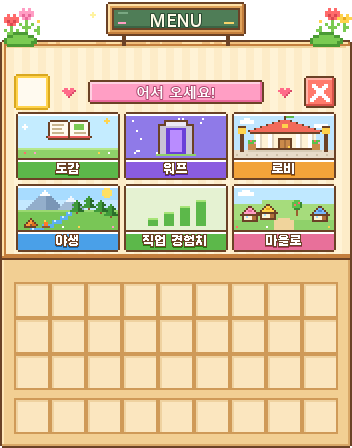
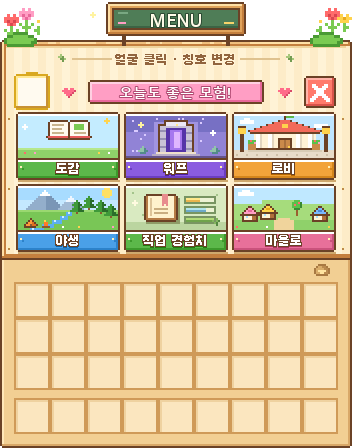
style: enrich village menu pixel art details

diff --git a/tools/make_art.py b/tools/make_art.py
@@ -5,7 +5,7 @@ ServerCore 그림 만들기 (밝고 귀여운 스타듀밸리 느낌)  →  tool
 배경은 GUI 좌표(1배) 기준으로 설계하고 2배 해상도로 그려요 (게임에서 더 선명).
 창 위로 튀어나온 간판·꽃을 그리려고 그림 위쪽에 TOP(=20)px 여백이 있어요.
   - dogam_bg.png  176 x (20+222)  : 칠판 간판 + 수집품 판(9x5) + 아래 조작 줄 + 가방
-  - menu_bg.png   176 x (20+204)  : 칠판 간판 + 일러스트 큰 버튼 4개 + 가방
+  - menu_bg.png   176 x (20+204)  : 칠판 간판 + 일러스트 큰 버튼 6개 + 가방
   - skill_bg.png  176 x (20+222)  : 칠판 간판 + 분야별 카드 5줄 + 가방
   - land_bg.png   176 x (20+222)  : 칠판 간판 + 청크 지도(풀밭 7x5) + 버튼 줄 + 가방
   - check.png, arrow_*.png        : 아이템 모델용 그림
@@ -377,9 +377,9 @@ def draw_shop(theme):
 # ======================================================================
 #  메뉴 (5줄 상자) — 모든 그림은 자기 칸(18x18 격자) 안에만 그려요
 #    칸 c열 r줄의 영역: x 7+18c ~ 25+18c, y 17+18r ~ 35+18r
-#    0번 줄: 0열 내 머리, 1·7열 하트, 2~6열 "어서 오세요!", 8열 닫기
+#    0번 줄: 0열 내 머리, 1·7열 하트, 2~6열 "오늘도 좋은 모험!", 8열 닫기
 #    1~2줄: 0~2열 도감,   6~8열 로비
-#    1~4줄: 3~5열 워프 (가운데 큰 버튼)
+#    1~2줄: 3~5열 워프, 3~4줄: 3~5열 직업 경험치
 #    3~4줄: 0~2열 야생,   6~8열 마을로
 #    ⚠ menu.yml 의 slots 와 같아야 해요
 # ======================================================================
@@ -570,28 +570,60 @@ def tile_village(cv, x0, y0, x1, y1):
 
 
 def tile_warp(cv, x0, y0, x1, y1):
-    """Compact portal fitted to the upper half of the centre column."""
-    cv.rect(x0, y0, x1, y1, c("#8f7ae8"))
+    """Moonlit portal, carved stonework and a small path, inside two menu rows."""
+    cv.rect(x0, y0, x1, y1, c("#7770c4"))
+    cv.rect(x0, y0 + 9, x1, y1, c("#9183d6"))
     rnd = random.Random(7)
-    for _ in range(14):
-        cv.px(rnd.randint(x0 + 1, x1 - 2), rnd.randint(y0 + 1, y1 - 2), WHITE)
+    for _ in range(17):
+        cv.px(rnd.randint(x0 + 1, x1 - 2), rnd.randint(y0 + 1, y1 - 4), c("#d9caff"))
     mx = (x0 + x1) // 2
-    top, bottom = y0 + 3, y1 - 2
+    top, bottom = y0 + 3, y1 - 3
+    cv.rect(mx - 11, top + 1, mx + 11, bottom + 1, c("#a194e0"))
     cv.rect(mx - 9, top + 2, mx + 9, bottom, LINE)
     cv.rect(mx - 6, top, mx + 6, top + 2, LINE)
     cv.rect(mx - 8, top + 3, mx + 8, bottom, c("#c9c3d6"))
     cv.rect(mx - 5, top + 1, mx + 5, top + 3, c("#ece8f5"))
-    cv.rect(mx - 5, top + 4, mx + 5, bottom, c("#6a3fd8"))
-    cv.rect(mx - 3, top + 5, mx + 3, bottom - 1, c("#b98cff"))
-    cv.rect(mx - 10, bottom, mx + 10, bottom + 1, c("#8fd16a"))
+    cv.rect(mx - 5, top + 4, mx + 5, bottom, c("#5534a8"))
+    cv.rect(mx - 3, top + 5, mx + 3, bottom - 1, c("#a677ef"))
+    cv.rect(mx - 1, top + 6, mx + 2, bottom - 2, c("#dfb5ff"))
+    for yy in range(top + 5, bottom, 4):
+        cv.rect(mx - 8, yy, mx - 5, yy + 1, c("#9690b3"))
+        cv.rect(mx + 5, yy + 1, mx + 8, yy + 2, c("#9690b3"))
+    cv.px(mx, top + 2, c("#ffe88a"))
+    cv.rect(mx - 10, bottom, mx + 10, bottom + 1, c("#eee0cb"))
+    cv.rect(mx - 12, bottom + 1, mx + 12, bottom + 2, c("#b9adc6"))
+    cv.rect(x0, y1 - 1, x1, y1, c("#65548d"))
+    for dx in (-19, 17):
+        cv.sprite(mx + dx, y1 - 6, ["..g..", ".ggG.", "gggGG", ".GGG."],
+                  {"g": c("#92c4aa"), "G": c("#548b89")})
+    sparkle(cv, x0 + 6, y0 + 4, c("#fff3a0"))
+    sparkle(cv, x1 - 8, y0 + 8, WHITE)
 
 
 def tile_skill(cv, x0, y0, x1, y1):
-    cv.rect(x0, y0, x1, y1, c("#e5f2d2"))
-    for i, height in enumerate((4, 7, 10, 13)):
-        x = (x0 + x1) / 2 - 14 + i * 8
-        cv.rect(x, y1 - height - 2, x + 5, y1 - 2, c("#5cb84a"))
-        cv.rect(x, y1 - height - 2, x + 5, y1 - height - 1, c("#a6e477"))
+    """An illustrated profession journal with a ribbon and three experience tracks."""
+    cv.rect(x0, y0, x1, y1, c("#d9eac1"))
+    cv.rect(x0, y1 - 4, x1, y1, c("#bbd5a0"))
+    for xx, yy in ((3, 3), (8, 14), (45, 4), (42, 15)):
+        cv.px(x0 + xx, y0 + yy, c("#a4c48b"))
+    bx, by = x0 + 9, y0 + 4
+    cv.rect(bx + 1, by + 2, bx + 18, by + 15, c("#8e9c68"))
+    cv.box(bx, by, bx + 17, by + 14, c("#b57b45"))
+    cv.rect(bx + 2, by + 1, bx + 15, by + 12, c("#fff2cd"))
+    cv.rect(bx + 3, by + 2, bx + 4, by + 11, c("#ddc499"))
+    cv.rect(bx + 9, by, bx + 12, by + 6, c("#e88c8e"))
+    cv.px(bx + 10, by + 5, c("#fff2cd"))
+    for yy in (7, 9):
+        cv.rect(bx + 5, by + yy, bx + 12, by + yy + 1, c("#c9ad80"))
+    for i, (width, color, shine) in enumerate(((8, "#e9b54e", "#ffe88a"), (11, "#6daac7", "#b2e5ed"), (15, "#6fa34c", "#b3db79"))):
+        x, y = x0 + 29, y0 + 5 + i * 5
+        cv.rect(x, y, x + 16, y + 4, c("#789562"))
+        cv.rect(x + 1, y + 1, x + 15, y + 3, c("#edf3d5"))
+        cv.rect(x + 1, y + 1, x + width, y + 3, c(color))
+        cv.rect(x + 1, y + 1, x + width, y + 2, c(shine))
+    sparkle(cv, x0 + 3, y0 + 7, c("#fffbe0"))
+    cv.sprite(x1 - 7, y1 - 6, ["..g.", "g.gG", ".gG.", "..G."],
+              {"g": c("#83b65e"), "G": c("#548742")})
 
 
 MENU_TILES = [  # (열 범위, 줄 범위, 그리기, 이름표, 이름표 색)
@@ -614,10 +646,25 @@ def draw_menu():
         cv.rect(x, 3, x + 4, 107, c("#fdecc8"))
     cv.rect(3, 3, W - 3, 4, c("#f0d49c"))
 
+    # A quiet header explains the profile action; the face itself stays unobstructed.
+    cv.rect(36, 9, 56, 10, c("#dfc28f"))
+    cv.rect(120, 9, 140, 10, c("#dfc28f"))
+    crisp_label(cv, 88, 10, "얼굴 클릭 · 칭호 변경", 5, c("#91643e"), c("#fff3d6"))
+    for x in (29, 143):
+        cv.sprite(x, 7, [".g..", "ggG.", ".GGg", "..G."],
+                  {"g": c("#a7c77b"), "G": c("#739c52")})
+    for x in (4, W - 5):
+        for y in (39, 74, 104):
+            cv.px(x, y, c("#bd8a48"))
+            cv.px(x, y - 1, c("#fff0bb"))
+
     # 0번 줄 -------------------------------------------------
     x0, y0, x1, y1 = cell(0, 0, 0, 0)                # 내 머리 액자 (머리는 x0+1~x1-1 에 그려짐)
     cv.box(x0, y0, x1, y1, c("#fffaf0"), line=c("#d9a820"))
-    cv.bevel(x0, y0, x1, y1, c("#ffd34d"), c("#ffd34d"))
+    cv.bevel(x0, y0, x1, y1, c("#ffe894"), c("#c89135"))
+    for x, y in ((x0, y0), (x1 - 1, y0), (x0, y1 - 1), (x1 - 1, y1 - 1)):
+        cv.px(x, y, c("#fff3d6"))
+    cv.rect(x0 + 6, y0 - 1, x1 - 6, y0, c("#d9a820"))
     x0, y0, x1, y1 = cell(8, 8, 0, 0)                # 닫기
     round_button(cv, x0 + 1, y0 + 1, x1 - 1, y1 - 1, c("#ff7b6b"), c("#ffb3a8"), c("#d9534a"))
     for i in range(8):
@@ -626,7 +673,7 @@ def draw_menu():
     x0, y0, x1, y1 = cell(2, 6, 0, 0)                # 리본
     cv.box(x0 + 1, y0 + 3, x1 - 1, y1 - 3, c("#ff9ec4"))
     cv.bevel(x0 + 1, y0 + 3, x1 - 1, y1 - 3, c("#ffd0e2"), c("#e8679a"))
-    cv.text((x0 + x1) / 2, (y0 + y1) / 2, "어서 오세요!", 7, WHITE, stroke=c("#b04a72"), sw=0.5)
+    cv.text((x0 + x1) / 2, (y0 + y1) / 2, "오늘도 좋은 모험!", 7, WHITE, stroke=c("#b04a72"), sw=0.5)
     for col in (1, 7):                               # 하트 (자기 칸 가운데)
         x0, y0, x1, y1 = cell(col, col, 0, 0)
         cv.sprite(x0 + 6, y0 + 7, [".hh.hh.", "hhhhhhH", ".hhhhH.", "..hhH..", "...H..."],
@@ -636,6 +683,8 @@ def draw_menu():
     for (c0, c1), (r0, r1), draw, label, band in MENU_TILES:
         x0, y0, x1, y1 = cell(c0, c1, r0, r1)
         x0, y0, x1, y1 = x0 + 1, y0 + 1, x1 - 1, y1 - 1
+        # Recessed card shadow, warm metal edging and a shaded label rail.
+        cv.rect(x0 + 1, y1, x1, y1 + 1, c("#cfa96e"))
         cv.rect(x0, y0, x1, y1, LINE)
         for (x, y) in [(x0, y0), (x1 - 1, y0), (x0, y1 - 1), (x1 - 1, y1 - 1)]:
             cv.px(x, y, c("#fdecc8"))
@@ -645,8 +694,17 @@ def draw_menu():
         cv.rect(x0 + 1, band_top, x1 - 1, band_top + 1, LINE)
         cv.rect(x0 + 1, band_top + 1, x1 - 1, y1 - 1, c(band))
         cv.rect(x0 + 1, band_top + 1, x1 - 1, band_top + 2, c("#ffffff"))
+        shade = tuple(max(0, v - 30) for v in c(band)[:3]) + (255,)
+        cv.rect(x0 + 1, y1 - 2, x1 - 1, y1 - 1, shade)
+        cv.rect(x1 - 2, band_top + 2, x1 - 1, y1 - 1, shade)
+        for x in (x0 + 2, x1 - 4):
+            cv.px(x, band_top + 4, c("#fff0b8"))
+            cv.px(x + 1, band_top + 5, shade)
         crisp_label(cv, (x0 + x1) / 2, band_top + 5.5, label, 6.5, WHITE, LINE,
                     shadow=tuple(max(0, v - 60) for v in c(band)[:3]) + (255,))
+
+    cv.sprite(157, 112, ["..oooo..", ".ottTTo.", "ottttTTo", "otyyyyTo", "ottyyTTo", ".oooooo."],
+              {"o": c("#a87942"), "t": c("#d9ac69"), "T": c("#ba8a4f"), "y": c("#ffe4a0")})
 
     chalk_sign(cv, 88, -19, 70, 17, "MENU")
     flowers(cv, 2, -4)

diff --git a/CHANGELOG.md b/CHANGELOG.md
@@ -8,6 +8,12 @@
 버전은 `build.gradle.kts` 의 `version` 한 곳만 바꾸면 jar 이름과 plugin.yml 에 같이 들어가요.
 서버에서는 `/version ServerCore` 로 지금 돌고 있는 버전을 확인할 수 있어요.
 
+## 3.39.1 — 2026-10-29
+
+- 마을 메뉴 상단에 얼굴 클릭·칭호 변경 안내와 잎 장식을 넣고 얼굴 액자·버튼 명패에 금속 장식과 그림자를 더했습니다. 환영 리본 문구를 ‘오늘도 좋은 모험!’으로 다듬었습니다.
+- 직업 경험치 버튼을 리본 달린 직업 수첩·세 가지 경험치 트랙 그림으로, 워프를 빛나는 포털·돌 계단·관목으로 꾸몄습니다. 하단 가방 장식을 추가하고 기존 클릭 영역과 이동 동작은 유지합니다.
+- Java 25 빌드·필수 회귀 검증과 전체 팩의 JSON 473개·PNG 125개·참조 627개·도구 모델 검증을 통과했습니다. `servercore` 릴리스 ZIP을 교체하고 공개 다운로드 일치를 확인했습니다. SHA-1: `e0d60097348c51b74764fea5a0df6c26d40b3cef`.
+
 ## 3.39.0 — 2026-10-29
 
 - 메뉴의 플레이어 얼굴을 누르면 직업·업적 보유 칭호를 무료로 선택·해제하는 칭호 변환 창을 엽니다. `/honor`도 같은 창을 열고 기존 직접 장착 명령은 유지합니다. 페이지 이동과 현재 장착 표시를 지원하며 클릭할 때 보유 여부를 다시 검사합니다.
